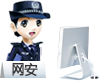
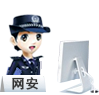
fix 1009#2 update wangjian images

diff --git a/statics/themes/L1_Global/css/index.css b/statics/themes/L1_Global/css/index.css
@@ -103,7 +103,7 @@ img{border:none}
 .work-area .jianguan:hover{background-image:url(../images/stand-jianguan.png);background-position:-4px 2px}
 .work-area .jiaojing{background-image:url(../images/down-jiaojing.png);background-position:0 19px}
 .work-area .jiaojing:hover{background-image:url(../images/stand-jiaojing.png);background-position:0 0}
-.work-area .wangjian{background-image:url(../images/down-wangjian.png);background-position:0 22px}
+.work-area .wangjian{background-image:url(../images/down-wangjian.png);background-position:0 9px}
 .work-area .wangjian:hover{background-image:url(../images/stand-wangjian.png);background-position:0 9px}
 .work-area .zhian{background-image:url(../images/down-zhian.png);background-position:0 19px}
 .work-area .zhian:hover{background-image:url(../images/stand-zhian.png);background-position:-1px 0}
